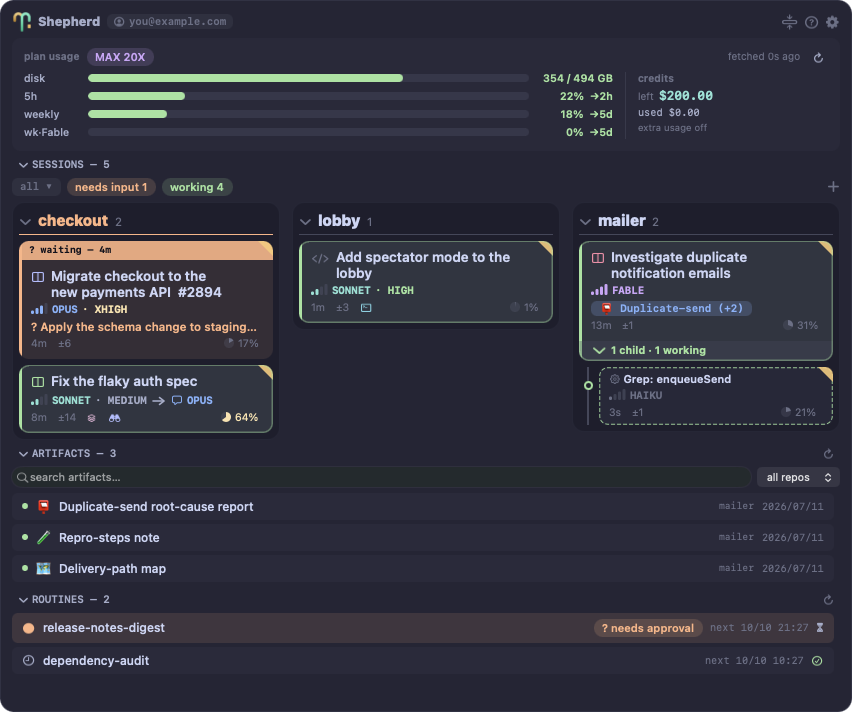
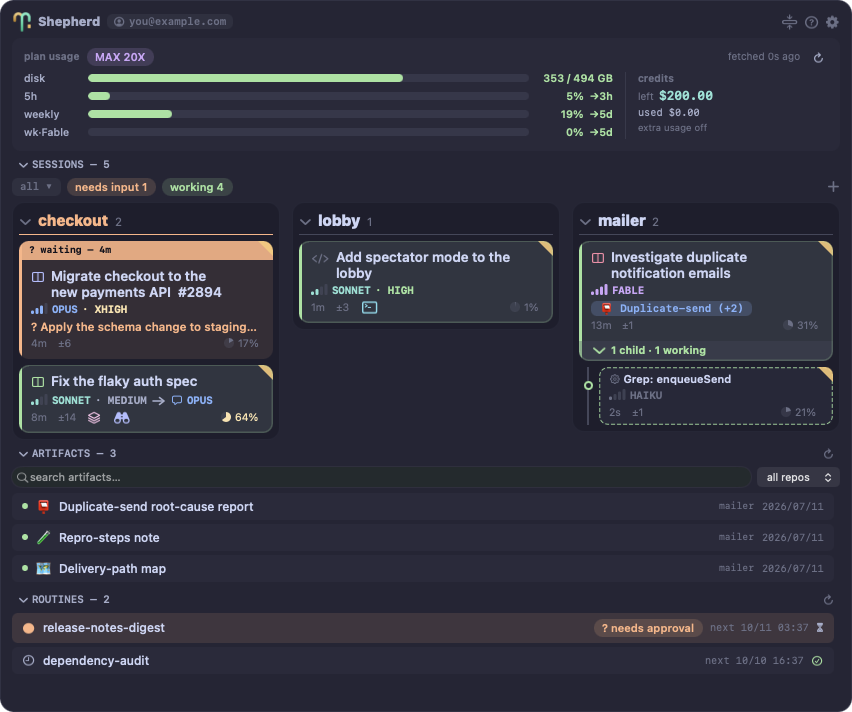
feat: enlarge the meta-strip session marks to the strip's line height
The shell / monitor / workspace marks were ~9pt of ink as text
attachments. Each now uses the largest SF Symbol pointSize whose ink
fits the meta strip's 13pt line box (measured at 2x: terminal 14pt,
binoculars.fill 13pt, square.stack.3d.up 11pt), drawn unscaled in an
image view pinned to that height, so only transparent symbol padding
overhangs and the card height is unchanged. The monitor count is a
matching 10.5pt bold label in the same color. Docs screenshots re-shot.

Claude-Session: https://claude.ai/code/session_016EzgjT4c9mNvakjaotPHPf

diff --git a/Sources/AppDelegate+Cards.swift b/Sources/AppDelegate+Cards.swift
@@ -532,15 +532,38 @@ extension AppDelegate {
         // (Workspace isn't arrow.triangle.branch: on the card face that glyph is the fork mark —
         // family strip and thread node — and the right-click menu uses it for a worktree's
         // directory item; a third meaning on the face would read as "fork".)
+        // Sized to the strip's own line box, never taller (2026-10-10: the marks were too small):
+        // the meta strip is 13pt high — set by its 10.5pt labels (fittingSize 13; the context pie
+        // is 10) — so each glyph gets the largest pointSize whose INK fits 13pt (measured at 2x:
+        // terminal 14pt → ink 13, binoculars.fill 13pt → 13, square.stack.3d.up 11pt → 13; was
+        // ~9pt of ink as a text attachment). The image view is pinned to the line height and draws
+        // unscaled and centered, so only the transparent symbol padding overhangs the box and the
+        // card's height doesn't move.
+        let markLineH = metaLabel("0").fittingSize.height
+        func metaMark(_ symbol: String, pointSize: CGFloat, color: NSColor, count: Int? = nil) -> NSView {
+            let iv = NSImageView(image: symbolImage(symbol, size: pointSize, color: color) ?? NSImage())
+            iv.imageScaling = .scaleNone
+            iv.translatesAutoresizingMaskIntoConstraints = false
+            NSLayoutConstraint.activate([
+                iv.heightAnchor.constraint(equalToConstant: markLineH),
+                iv.widthAnchor.constraint(equalToConstant: iv.image?.size.width ?? markLineH),
+            ])
+            guard let count else { return iv }
+            let n = makeLabel("\(count)", size: 10.5, weight: .bold, color: color)
+            n.setContentCompressionResistancePriority(.required, for: .horizontal)
+            let pair = NSStackView(views: [iv, n])
+            pair.orientation = .horizontal; pair.spacing = 1; pair.alignment = .centerY
+            return pair
+        }
         if row.isWorktree {
             meta.addArrangedSubview(withHoverTip(
-                metaSymbolLabel("square.stack.3d.up", "", color: Cat.pink),
+                metaMark("square.stack.3d.up", pointSize: 11, color: Cat.pink),
                 L("ワークスペース: git worktree 内で作業中（\(row.dirName)）",
                   "workspace: working inside a git worktree (\(row.dirName))")))
         }
         if row.shellRunning {
             meta.addArrangedSubview(withHoverTip(
-                metaSymbolLabel("terminal", "", color: Cat.sky),
+                metaMark("terminal", pointSize: 14, color: Cat.sky),
                 L("シェル: Bash コマンドを実行中", "shell: a Bash command is running")))
         }
         if !row.monitors.isEmpty {
@@ -552,8 +575,8 @@ extension AppDelegate {
                 return "· \(what)" + (until.isEmpty ? "" : L("（\(until)）", " (\(until))"))
             }
             meta.addArrangedSubview(withHoverTip(
-                metaSymbolLabel("binoculars.fill", row.monitors.count > 1 ? "\(row.monitors.count)" : "",
-                                color: Cat.lavender),
+                metaMark("binoculars.fill", pointSize: 13, color: Cat.lavender,
+                         count: row.monitors.count > 1 ? row.monitors.count : nil),
                 L("モニター稼働中:", "monitor running:") + "\n" + lines.joined(separator: "\n")))
         }
         if row.sessionId == dropSentSession { meta.addArrangedSubview(metaSymbolLabel("paperclip", L("送信済み", "sent"), color: Cat.green)) }

diff --git a/CLAUDE.md b/CLAUDE.md
@@ -32,7 +32,7 @@ Shepherd はこのマシンで動く Claude Code セッション（zellij ペイ
   3. 計器行（「アイコン＋テキスト」の計器。ピルが残るのは BG・parked・未知の権限モードだけ〔既知モードの判定は `lockGlyph(for:)` を述語として流用〕）: **段数バー＋モデル名**（`modelTier` 1=HAIKU〜4=FABLE。未知名はテキストチップにフォールバック。グリフの底はラベルの **baseline に接地**〔大文字ラベルの光学中心は幾何中心より上 — centerY 揃えは沈んで見える〕）・**描画矢印→吹き出し＋アドバイザー名**（`advisorArrowImage`＋SF `bubble.left`。矢印=相談する先・アドバイザー計器はホバーで説明ポップアップ。transcript 行レベル `advisorModel` 由来〔subagent/teammate の jsonl にも継承〕。「構成あり」の印で「相談した」印ではない）・**フォルダ人物グリフ＋config dir 名**（SF `folder.badge.person.crop`。**非既定 CLAUDE_CONFIG_DIR のカードにだけ出す**〔既定 `~/.claude` は無印＝無地が既定という読み〕。テキストは `configDirLabel`〔basename から `.claude-`/`.claude.` を剥がし、12文字超は `…` で詰める — `instrument()` のラベルは圧縮抵抗 required なので長い名前は行ごとカード端で無言クリップされる・2026-08-23 実測〕。色は `Cat.subtext` 固定 — この行の色は「モデル段位」の語彙なので、識別情報に彩度を与えない。**ホバーは `showHoverTip` の係留ポップオーバー**でフルパス〔`~` 短縮〕を出す — 隣の advisor 計器と同じ流儀。**ヒント行は使わない**: 動作自体はする〔2026-08-23 実測: カーソルを合成移動させると正しく描画された〕が、盤面左下の 10.5pt overlay グレーで、ホバーしている計器から視線が離れすぎて気付けない — `hoverTipPopover` が導入された「per-element details には bottom hint line は実用上見えない」そのもの。子カード〔subagent〕は親の config dir を継承する）。**effort テキスト**〔モデル計器の直後に `· XHIGH` の形で添える。transcript の main-chain assistant 行トップレベル `effort` 由来・値が無ければ出さない・色は段階ごとのヒート色（`effortColor(_:)`・Models.swift・純関数・テスト済み: low=灰 `Cat.overlay`／medium=`Cat.subtext`／high=緑 `Cat.green`／xhigh=黄 `Cat.yellow`／max=琥珀 `Cat.amber`／未知値は `Cat.subtext`）〔黄=コンテキスト警告・緑=working と意図的に重複させている — ユーザー決定 2026-10-01、新しい有彩色を足すより読みやすいという判断〕・ホバーで係留ポップオーバー。子カードも自分の jsonl の値〔親と違い得る〕、色も同じ規則〕・**fast の印**〔SF `bolt.fill`・最新 main-chain 行の `message.usage.speed == "fast"` のときだけ・ホバーで説明〕。描画は `tierBarsImage`＋`instrument()`（Components）
   4. ［blocked の「? 質問」1行プレビュー（`showBlockedQuestion`・needs → lastMessage）］
   5. ［成果物: **Artifact のみ**（1件=タイトルバッジ・2件以上=「最新タイトル（他+N）」1枚でクリック選択メニュー `artifactBadgeText`）。PR はカード面に出さず、右クリックメニューの「✓/✗/● PR #N を開く」で扱う］
-  6. メタ行: 経過時間・±変更ファイル数・**セッションマーク**（アイコン単独・各々ホバーで `showHoverTip` の係留ポップオーバー: workspace=`square.stack.3d.up`〔`arrow.triangle.branch` はカード面では fork マーク（ファミリーストリップ/スレッドのノード）、右クリックメニューでは worktree のディレクトリ項目に使用済みなので避けた・`isWorktree`＝`--git-dir` ≠ `--git-common-dir`・既存の git facts に相乗りでサブプロセス追加なし〕／shell=`terminal`〔前景 Bash 実行中〕／monitor=`binoculars.fill`〔生きた Monitor 監視・複数なら数字・ホバーで各監視の description と期限〕。**色は shell=`Cat.sky` / monitor=`Cat.lavender` / workspace=`Cat.pink`**（ユーザー決定 2026-10-10: 最初の無彩色版が「とてもわかりづらい」ため。状態色〔緑/黄/赤/桃/琥珀〕・段位色〔teal=SONNET 等〕と被らない明るい色で、idle の50%アルファ下でも判別できる明度。workspace は識別情報だが、config dir 計器の「識別情報に彩度を与えない」原則の**例外**としてユーザーが選んだ。lavender は plan モードのグリフ色と同色だが、置き場所〔タイトル先頭 vs メタ行〕が違うので許容）。子カードのタイトルの端末グリフも sky。判定は `sessionTaskMarks`・データ源節の transcript 参照。計器行に置かないのは色が「モデル段位」の語彙だから、タイトル行に置かないのは2行タイトルの幅予約を食うから。子カードは shell マークを出さずタイトルの端末グリフで表す〔二重表示しない〕・monitor は自分の jsonl から）・📎送信済み・stale?・✨子作業中、右端に◔コンテキスト%パイ（**状態の単語は置かない** — 状態は下記の装飾が担う）
+  6. メタ行: 経過時間・±変更ファイル数・**セッションマーク**（アイコン単独・各々ホバーで `showHoverTip` の係留ポップオーバー: workspace=`square.stack.3d.up`〔`arrow.triangle.branch` はカード面では fork マーク（ファミリーストリップ/スレッドのノード）、右クリックメニューでは worktree のディレクトリ項目に使用済みなので避けた・`isWorktree`＝`--git-dir` ≠ `--git-common-dir`・既存の git facts に相乗りでサブプロセス追加なし〕／shell=`terminal`〔前景 Bash 実行中〕／monitor=`binoculars.fill`〔生きた Monitor 監視・複数なら数字・ホバーで各監視の description と期限〕。**色は shell=`Cat.sky` / monitor=`Cat.lavender` / workspace=`Cat.pink`**（ユーザー決定 2026-10-10: 最初の無彩色版が「とてもわかりづらい」ため。状態色〔緑/黄/赤/桃/琥珀〕・段位色〔teal=SONNET 等〕と被らない明るい色で、idle の50%アルファ下でも判別できる明度。workspace は識別情報だが、config dir 計器の「識別情報に彩度を与えない」原則の**例外**としてユーザーが選んだ。lavender は plan モードのグリフ色と同色だが、置き場所〔タイトル先頭 vs メタ行〕が違うので許容）。子カードのタイトルの端末グリフも sky。**大きさはメタ行の行高（10.5pt ラベルの fittingSize＝13pt）に収まる最大**: 2x 実測でインク高が13pt になる pointSize（terminal 14 / binoculars.fill 13 / square.stack.3d.up 11）を、行高に固定した NSImageView（`.scaleNone`・中央）で描く — 透明な symbol 余白だけがはみ出し、カードの高さは変わらない（デモ盤面の前後キャプチャでカード枠の行位置が一致）。monitor の件数は同色の 10.5pt bold。判定は `sessionTaskMarks`・データ源節の transcript 参照。計器行に置かないのは色が「モデル段位」の語彙だから、タイトル行に置かないのは2行タイトルの幅予約を食うから。子カードは shell マークを出さずタイトルの端末グリフで表す〔二重表示しない〕・monitor は自分の jsonl から）・📎送信済み・stale?・✨子作業中、右端に◔コンテキスト%パイ（**状態の単語は置かない** — 状態は下記の装飾が担う）
 - **状態はドットではなくカード装飾**: 左端3pxレール（赤error/桃blocked/緑working/灰idle）、blocked/error は薄い同色ウォッシュ、working は緑の呼吸ボーダー＋薄緑ティント、idle/終了は50%アルファ（ホバーで復帰）。未コミットは右上の琥珀ドッグイア（15×15）。パス⎇ブランチはカード面には無い（右クリックメニュー内のみ）。subagent/teammate カードは破線輪郭のコンパクトチップ（レールなし・破線色が状態色）。
 - **ヒント行**: カード下部に自前のホバーヒント表示（`hintLabel` / `setHint`）。NSToolTip が効かないための代替。
 - **カードのクリック＝そのセッションを開く**（`openRow`）: zellij 行は `zellij attach`＋ペインフォーカス、background worker は **Ghostty 新窓で `claude attach <short-id>`**（終了記録は確認シートを挟んで再開）。開けない行（素のターミナル）は toolTip で説明するだけ。
